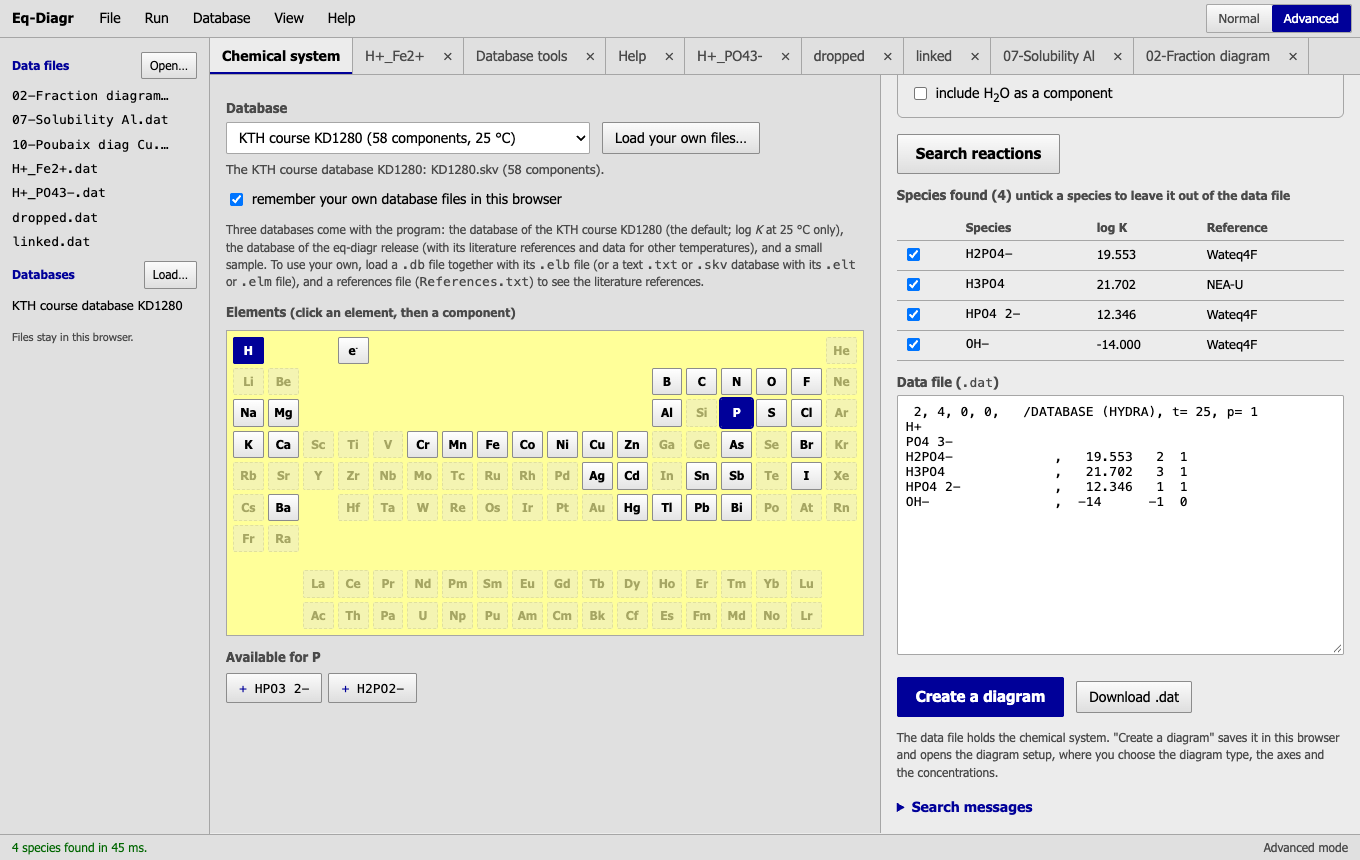
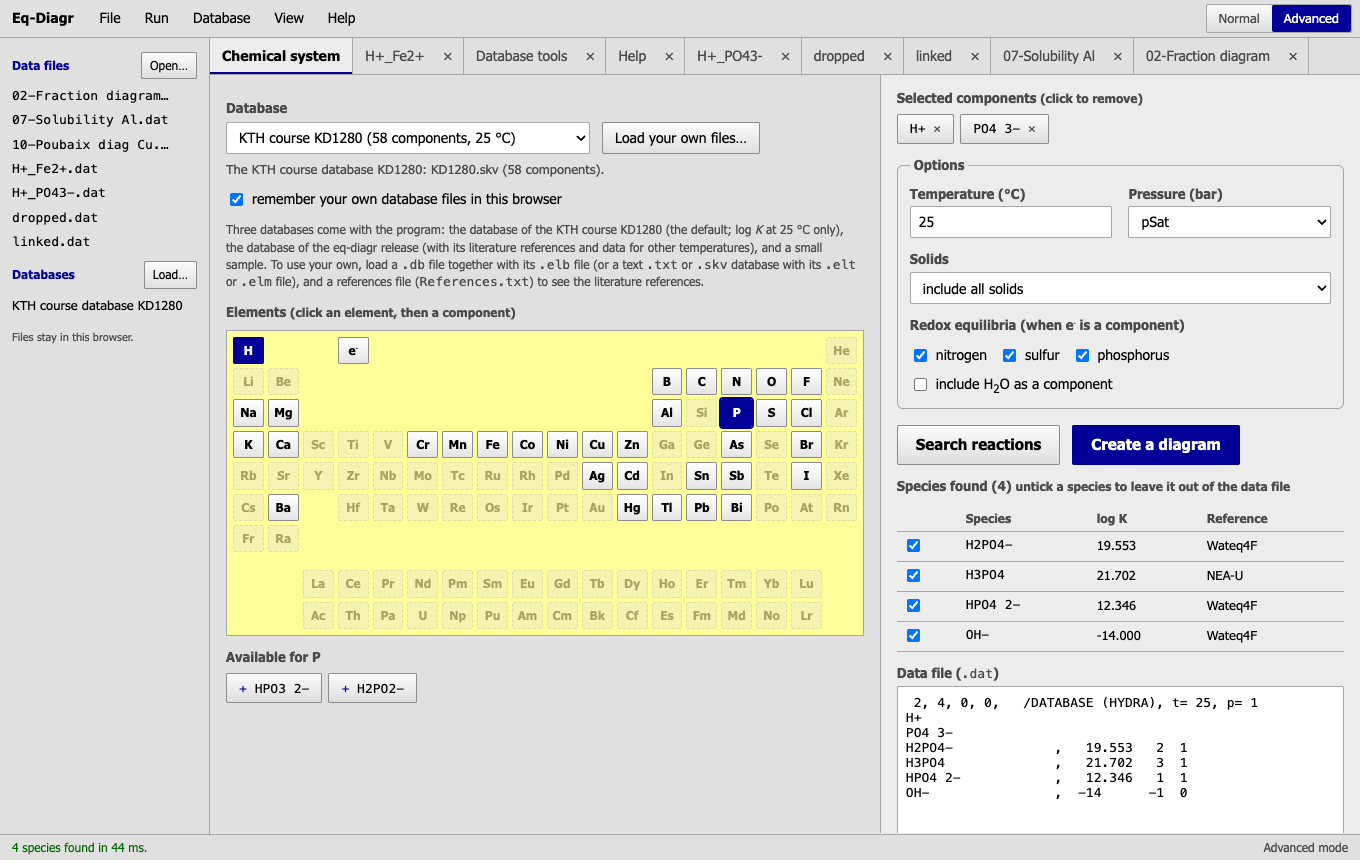
Chemical system tab: 'Create a diagram' beside 'Search reactions'
The two buttons are in one row above the species found, so the second is
in view without scrolling past a long result.

Changed region(s): [[0.6485, 0.0907, 0.9882, 0.9674], [0.9574, 0.3023, 0.9882, 0.3628]]

diff --git a/webpoc/web/database.html b/webpoc/web/database.html
@@ -114,14 +114,14 @@
       </fieldset>
       <div class="row">
         <button id="search" class="primary cta" disabled>Search reactions</button>
+        <button id="toDiagram" class="cta" disabled>Create a diagram</button>
       </div>
       <p id="status"></p>
       <div id="found"></div>
       <label for="dat" class="adv-only">Data file (<code>.dat</code>)</label>
       <textarea id="dat" class="adv-only" spellcheck="false" readonly placeholder="The chemical system appears here after a search."></textarea>
-      <div class="row">
-        <button id="toDiagram" class="cta" disabled>Create a diagram</button>
-        <button id="download" class="adv-only" disabled>Download .dat</button>
+      <div class="row adv-only">
+        <button id="download" disabled>Download .dat</button>
       </div>
       <p class="note adv-only">The data file holds the chemical system. "Create a diagram" saves it in this browser and opens the diagram setup, where you choose the diagram type, the axes and the concentrations.</p>
       <details id="logDetails"><summary>Search messages</summary><pre id="log"></pre></details>

diff --git a/APP_OVERVIEW.md b/APP_OVERVIEW.md
@@ -624,14 +624,14 @@ The two sections of the Chemical system tab (database and periodic table; compon
       </fieldset>
       <div class="row">
         <button id="search" class="primary cta" disabled>Search reactions</button>
+        <button id="toDiagram" class="cta" disabled>Create a diagram</button>
       </div>
       <p id="status"></p>
       <div id="found"></div>
       <label for="dat" class="adv-only">Data file (<code>.dat</code>)</label>
       <textarea id="dat" class="adv-only" spellcheck="false" readonly placeholder="The chemical system appears here after a search."></textarea>
-      <div class="row">
-        <button id="toDiagram" class="cta" disabled>Create a diagram</button>
-        <button id="download" class="adv-only" disabled>Download .dat</button>
+      <div class="row adv-only">
+        <button id="download" disabled>Download .dat</button>
       </div>
       <p class="note adv-only">The data file holds the chemical system. "Create a diagram" saves it in this browser and opens the diagram setup, where you choose the diagram type, the axes and the concentrations.</p>
       <details id="logDetails"><summary>Search messages</summary><pre id="log"></pre></details>

diff --git a/REVIEW.md b/REVIEW.md
@@ -535,3 +535,5 @@ The data file holds accumulated constants (H₃PO₄ from 3 H⁺ and PO₄³⁻:
 Decision made without asking: the steps are always written as acid dissociation (pKa). A view in base constants (pKb) or in stepwise formation constants of metal complexes (log K₁, log K₂ for ligands other than H⁺) was not added.
 
 - **Wording** (after a comment): the choice reads "accumulated log K" and "stepwise pKa". The values are pKa = −log Ka; "log Ka" would have the opposite sign (−7.207 for H₂PO₄⁻), and pKb values are not shown.
+
+- **"Create a diagram" beside "Search reactions"** (after a comment): the two buttons of the Chemical system tab are in one row above the species found, so the second one is in view without scrolling past a long result. Before a search it is there but disabled.
